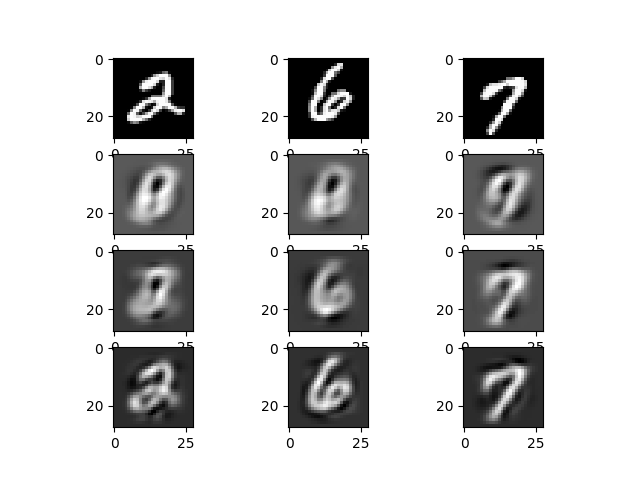
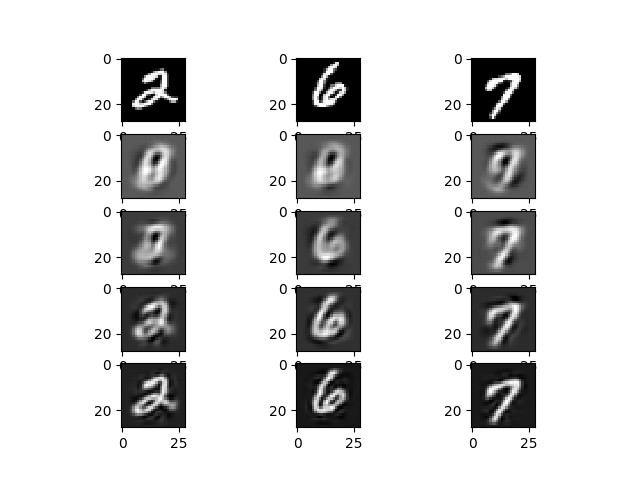
a4 complete

Changed region(s): [[0.6875, 0.0938, 0.875, 0.9375], [0.4062, 0.0938, 0.5938, 0.9375], [0.125, 0.0938, 0.3125, 0.9375]]

diff --git a/hw4/cse446hw4.tex b/hw4/cse446hw4.tex
@@ -185,7 +185,7 @@ $\sum_{i=1}^d{\lambda_i} = 52.72503549512691$
 
 \subsection*{b.}
 
-Any example $x \in \mathbb{R}^d$ (including those from either the training or test set) can be approximated using just $\mu$ and the first $k$ eigenvalue, eigenvector pairs, for any $k = 1, 2, \ldots, d$. For any $k$, provide a formula for computing this approximation. \\ \\
+% Any example $x \in \mathbb{R}^d$ (including those from either the training or test set) can be approximated using just $\mu$ and the first $k$ eigenvalue, eigenvector pairs, for any $k = 1, 2, \ldots, d$. For any $k$, provide a formula for computing this approximation. \\
 
 In terms of the first $k$ eigenvectors $V_k$, we can use what we have been doing so far, and adjusting for the mean value: \\
 $V_k^\top V_k (x - \mu) + \mu$
@@ -193,15 +193,39 @@ $V_k^\top V_k (x - \mu) + \mu$
 
 \subsection*{c.}
 
-Using this approximation, plot the reconstruction error from $k=1$ to $100$ (the $X$-axis is $k$ and the $Y$-axis is the mean-squared error reconstruction error) on the training set and the test set (using the $\mu$ and the basis learned from the training set). On a separate plot, plot $1-\frac{\sum_{i=1}^{k}{\lambda_i}}{\sum_{i=1}^{d}{\lambda_i}}$ from $k=1$ to $100$.
+\begin{figure}[h]
+  \centering
+  \includegraphics[width=130mm]{../hw4-code/results/a3_cobj.png}
+\end{figure}
+
+\begin{figure}[h]
+  \centering
+  \includegraphics[width=130mm]{../hw4-code/results/a3_cerr.png}
+\end{figure}
+
+\newpage
 
 \subsection*{d.}
 
-Now let us get a sense of what the top PCA directions are capturing. Display the first $10$ eigenvectors as images, and provide a brief interpretation of what you think they capture.
+% Now let us get a sense of what the top PCA directions are capturing. Display the first $10$ eigenvectors as images, and provide a brief interpretation of what you think they capture.
+
+\begin{figure}[!hb]
+  \centering
+  \includegraphics[width=130mm]{../hw4-code/results/a3_d.png}
+\end{figure}
+
+The first 10 eigenvectors are essentially trying to capture the most core visual elements of a number, or the most distinguishing features that a person can generally use to pick out and easily categorize any given digit. Each component essentially captures the most variation in the data, which provides the most information for reconstructing the image.
 
 \subsection*{e.}
 
-Finally, visualize a set of reconstructed digits from the training set for different values of $k$. In particular provide the reconstructions for digits $2, 6, 7$ with values $k = 5, 15, 40, 100$ (just choose an image from each digit arbitrarily). Show the original image side-by-side with its reconstruction. Provide a brief interpretation, in terms of your perceptions of the quality of these reconstructions and the dimensionality you used.
+% Finally, visualize a set of reconstructed digits from the training set for different values of $k$. In particular provide the reconstructions for digits $2, 6, 7$ with values $k = 5, 15, 40, 100$ (just choose an image from each digit arbitrarily). Show the original image side-by-side with its reconstruction. Provide a brief interpretation, in terms of your perceptions of the quality of these reconstructions and the dimensionality you used.
+
+\begin{figure}[!hb]
+  \centering
+  \includegraphics[width=130mm]{../hw4-code/results/a3_e.png}
+\end{figure}
+
+With more of the top eigenvectors, the image interpretation of each digit becomes much clearer. The digit becomes clearer with greater dimensionality, with the top 40 eigenvectors being good enough to tell each digit for sure, and just the first 15 eigenvectors being good enough to interpret for 6 and 7, and guessable for 2.
 
 }
 
@@ -288,7 +312,7 @@ def part_e(X_train, v_list):
       image = image.dot(X_train.T).T
       final_set.append(image[idx])
 
-  fig, axes = plt.subplots(4, len(idx_set))
+  fig, axes = plt.subplots(5, len(idx_set))
 
   for i, ax in enumerate(axes.ravel()):
     ax.imshow(final_set[i].reshape((28, 28)), cmap='gray')

diff --git a/hw4-code/src/pca.py b/hw4-code/src/pca.py
@@ -75,7 +75,7 @@ def part_e(X_train, v_list):
       image = image.dot(X_train.T).T
       final_set.append(image[idx])
 
-  fig, axes = plt.subplots(4, len(idx_set))
+  fig, axes = plt.subplots(5, len(idx_set))
 
   for i, ax in enumerate(axes.ravel()):
     ax.imshow(final_set[i].reshape((28, 28)), cmap='gray')
@@ -92,14 +92,14 @@ def main():
                    e_list[29], e_list[49]]) + "\n")
   output.write(str(sum(e_list)) + "\n")
 
-  train_mse_data, test_mse_data, frac_data = part_c(
-      X_train, X_test)
-  h.plot_multiple("error over k", "a3_cerr", "k", "error", 
-                  [train_mse_data, test_mse_data], c.tt_list)
-  h.plot_multiple("obj over k", "a3_cobj", "k", "obj", 
-                  [frac_data], ["frac"])
+  # train_mse_data, test_mse_data, frac_data = part_c(
+  #     X_train, X_test)
+  # h.plot_multiple("error over k", "a3_cerr", "k", "error", 
+  #                 [train_mse_data, test_mse_data], c.tt_list)
+  # h.plot_multiple("obj over k", "a3_cobj", "k", "obj", 
+  #                 [frac_data], ["frac"])
 
-  part_d(v_list) 
+  # part_d(v_list) 
 
   part_e(X_train, v_list)
 
